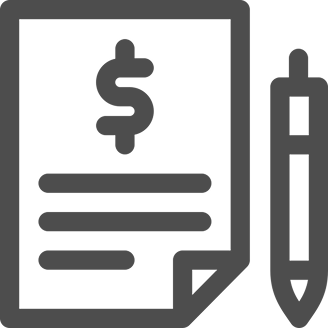
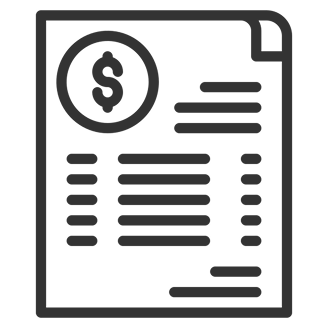
aaa

diff --git a/app/nosotros/page.tsx b/app/nosotros/page.tsx
@@ -127,10 +127,10 @@ export default function page() {
         {/* <h1 className="font-display mt-2 text-xl text-center font-semibold tracking-[0.03em] text-navy/85 uppercase">Nuestra historia</h1> */}
         <h3 className="font-[20px] py-5 font-bold text-center"></h3>
         <p className="px-4 text-center md:hidden">
-          <b>Nuestra historia</b>. Somos una empresa familiar con 35 años de experiencia en el rubro. A lo largo de este recorrido, desarrollamos conocimientos y experiencia en distintos ámbitos del comercio exterior. Hoy, con la creación de ZRN, buscamos consolidar todo lo aprendido y proyectarlo hacia el futuro, manteniendo el espíritu y los valores de una empresa familiar.
+           Somos una empresa familiar con 35 años de experiencia en el rubro. A lo largo de este recorrido, desarrollamos conocimientos y experiencia en distintos ámbitos del comercio exterior. Hoy, con la creación de ZRN, buscamos consolidar todo lo aprendido y proyectarlo hacia el futuro, manteniendo el espíritu y los valores de una empresa familiar.
         </p>
         <div className="hidden justify-between md:flex">
-          <p className="w-[33%] px-10"><b>Una trayectoria que continúa</b>. <br/> Somos una empresa familiar con 35 años <br/> de experiencia en el rubro.</p>
+          <p className="w-[33%] px-10"><b>Nuestra historia</b>. <br/> Somos una empresa familiar con 35 años <br/> de experiencia en el rubro.</p>
           <div className="h-[70px] w-[2px] rounded bg-gray-200"/>
           <p className="w-[33%] px-10">A lo largo de este recorrido, desarrollamos conocimientos y experiencia en distintos ámbitos del comercio exterior.</p>
           <div className="h-[70px] w-[2px] rounded bg-gray-200"/>

diff --git a/components/Reviews.tsx b/components/Reviews.tsx
@@ -192,7 +192,7 @@ export function Reviews() {
           reviews.map((review) => (
             <li
               key={`${copy}-${review.author}`}
-              className="flex h-[564px] w-full shrink-0 flex-col overflow-hidden border-[0.5px] border-gray-400 bg-white sm:w-[calc((100%-12px)/2)] lg:w-[calc((100%-24px)/3)]"
+              className="flex h-[564px] w-full shrink-0 flex-col overflow-hidden border-[0.5px] border-gray-300 bg-white sm:w-[calc((100%-12px)/2)] lg:w-[calc((100%-24px)/3)]"
             >
               <div className="flex items-center min-h-[75px] bg-[#DCEAFB] px-5 py-3">
                 <div className="flex w-full justify-between items-end">
